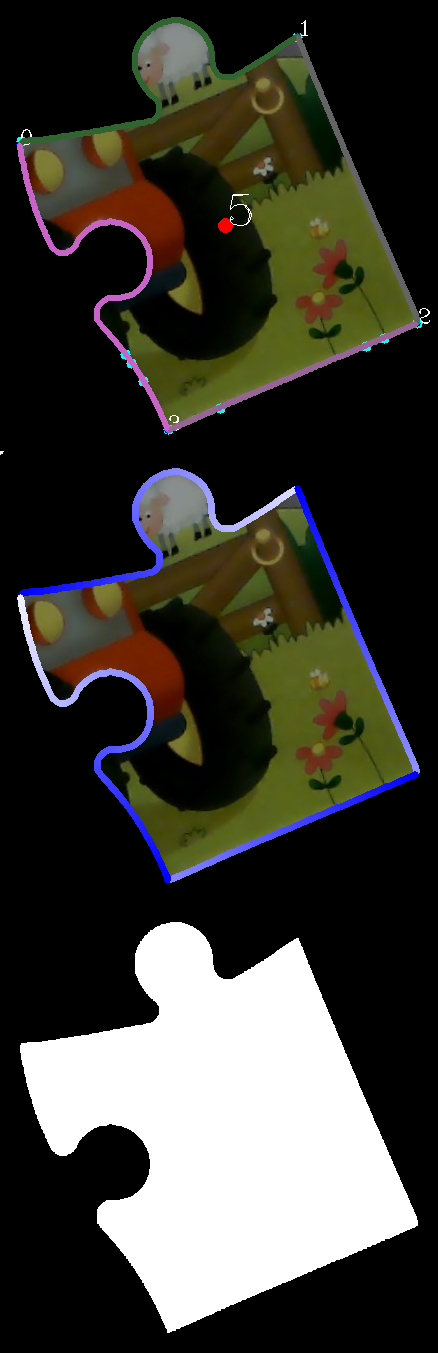
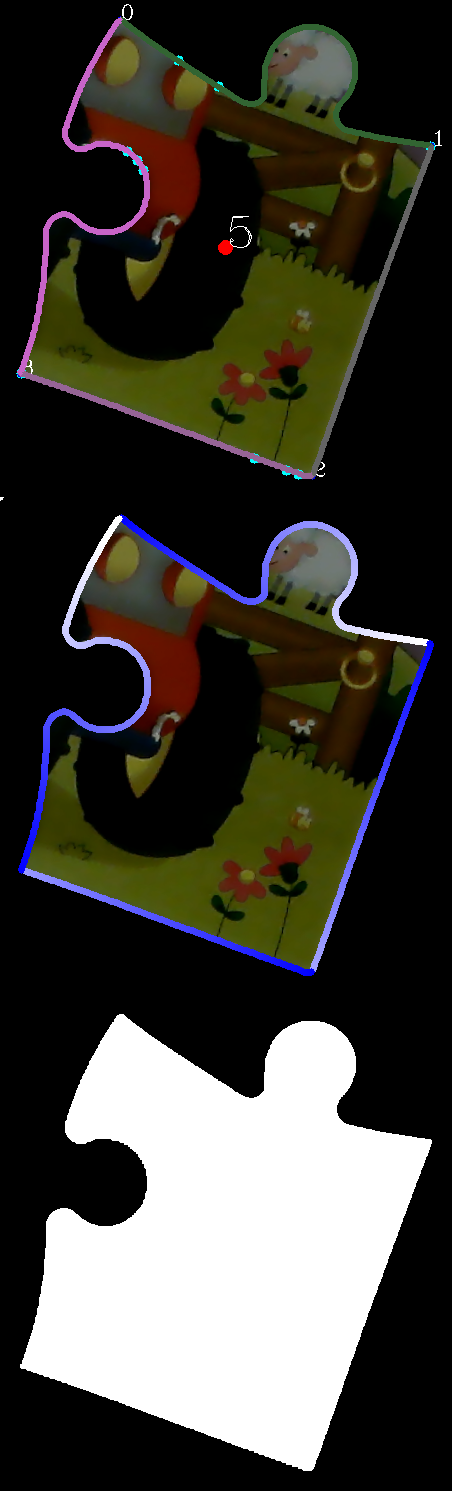
Prosak Changes

diff --git a/main.py b/main.py
@@ -7,7 +7,7 @@ import cv2
 import mechanics.mechanics_api as mechanics_api
 
 
-TEST_MODE = True
+TEST_MODE = False
 
 # Exciting! actual real main
 # Need to think about shceme - maybe we need thread for greedy in terms of speed
@@ -21,13 +21,13 @@ def get_images(test=True):
     if test:
         above, below = util.get_test_images()
     else:
-        for i in range(3):
+        for i in range(5):
             below = camera.take_picture(still_camera=True)
         below = cv2.cvtColor(below, cv2.COLOR_BGR2GRAY)
 
         mechanics_api.send_command("L", 1) #1 for turn off
         time.sleep(0.5)
-        for i in range(3):
+        for i in range(5):
             above = camera.take_picture(still_camera=True)
 
     # above = util.relevant_section(above, test)
@@ -38,9 +38,11 @@ def get_images(test=True):
 def main():
     # Parse pieces
     above, below = get_images(test=TEST_MODE)
+    above = util.relevant_section(above,TEST_MODE)
+    below = util.relevant_section(below,TEST_MODE)
     showImage("above", above)
     showImage("below", below)
-    cv2.waitKey(0)
+
 
     pieces = im_proc.get_pieces(above, below, TEST_MODE)
     puzzle_obj = puzzle.Puzzle(pieces)

diff --git a/image_processing/util.py b/image_processing/util.py
@@ -41,7 +41,7 @@ def relevant_section(img, test=True):
         tmp = img[100:-100, 200:-230]
     else:
         # for prosak pieces
-        tmp = img[30:-300, 780:-1070]
+        tmp = img[260:-395, 810:-1100]
 
     cv2.imshow("tmp",cv2.resize(tmp, None, fx=0.2, fy=0.2))
     # cv2.waitKey(0)

diff --git a/image_processing/piece.py b/image_processing/piece.py
@@ -165,7 +165,7 @@ class Piece(object):
                     chain.append(curr_pair)
                     candidates.remove(curr_pair)
 
-
+        print(len(chains))
         max_chain = max(chains, key=len)
 
         if len(max_chain) == 3:

diff --git a/image_processing/constants.py b/image_processing/constants.py
@@ -5,7 +5,7 @@ BELOW = BASE + "below62.jpeg"
 RESULTS_BASE = "./image_processing/results/"
 PIECES_BASE = "./image_processing/pieces/"
 
-REAL_THRESH = 220
+REAL_THRESH = 200
 TEST_THRESH = 75
 TEST_THRESH = 220
 CNT_THRESH = 50
